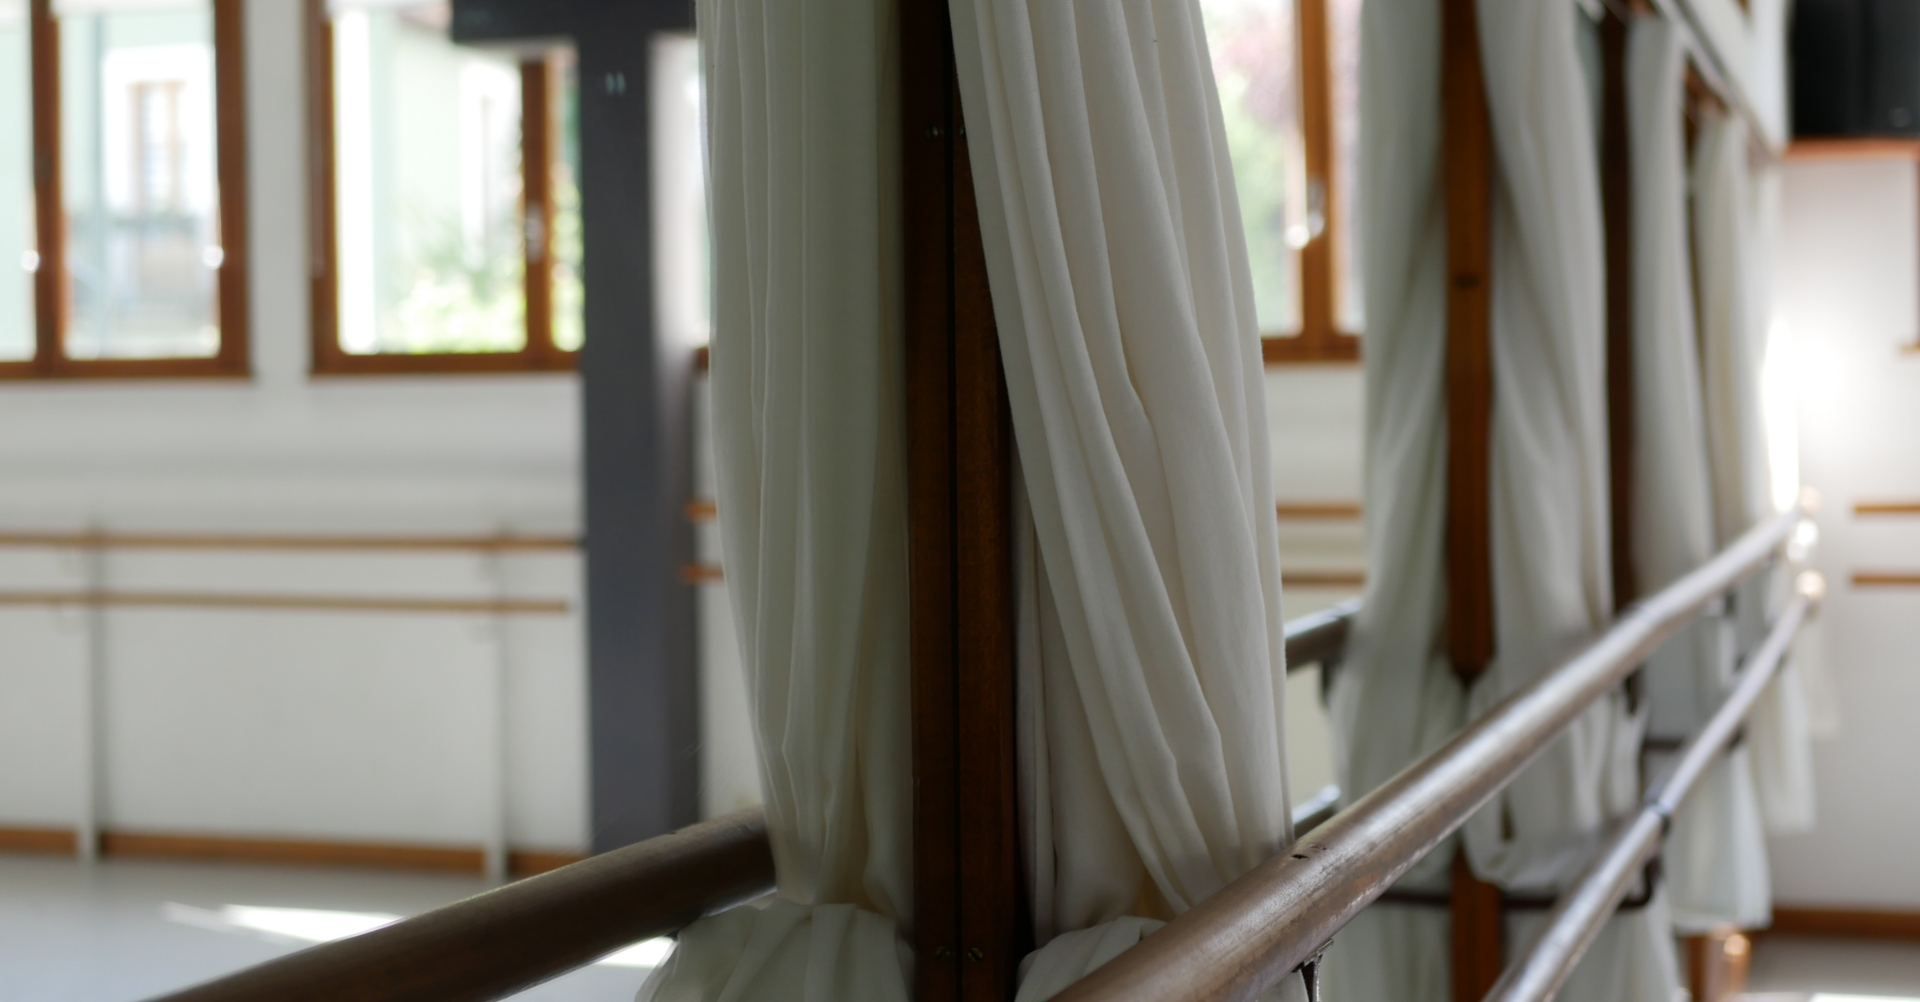
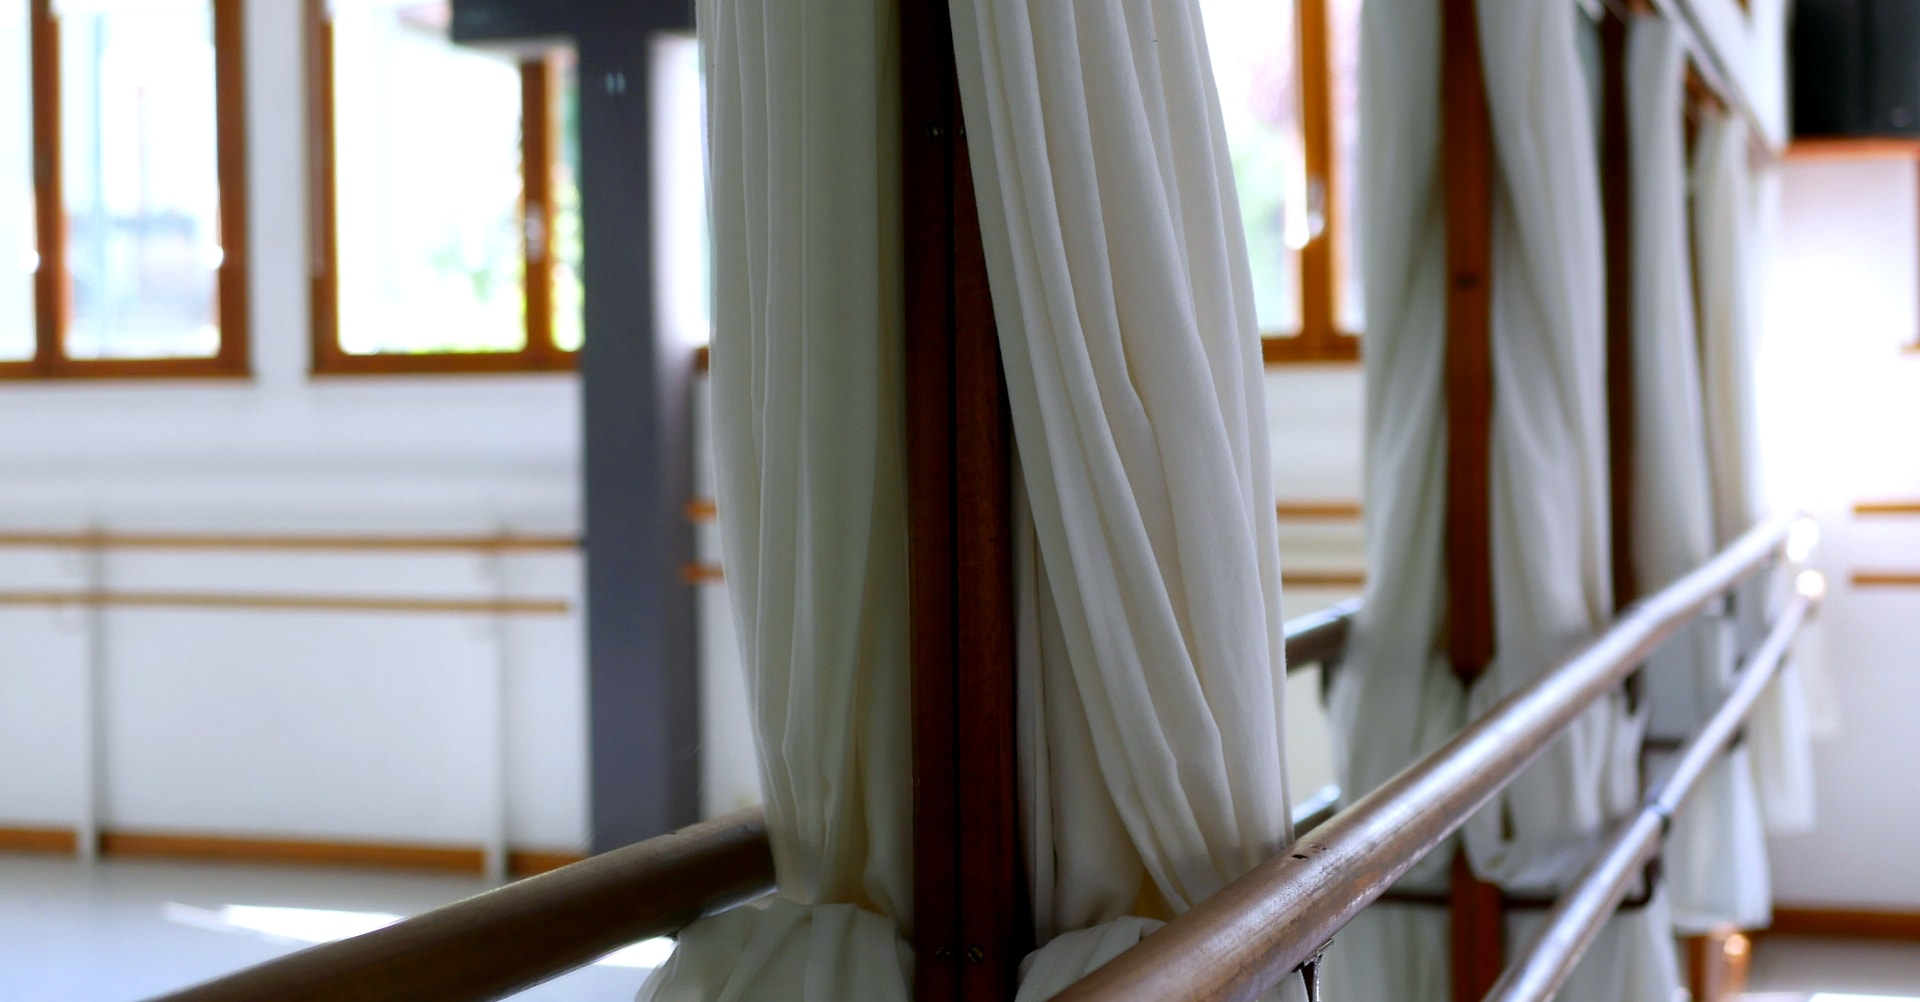
Photos en couleur avec un étalonnage commun, flou et distorsion renforcés en haut et en bas d’écran

diff --git a/src/styles/global.css b/src/styles/global.css
@@ -437,21 +437,3 @@ html { background: #ececeb; }
 
 .tlink:hover, a:hover .block__go, .course:hover { color: var(--plum); }
 .on-black .tlink:hover, .on-black a:hover .block__go, .block--full:hover .block__go { color: inherit; }
-
-main img, .menu__preview img { filter: var(--bw); }
-:root { --bw: grayscale(1) contrast(1.06); }
-[data-clip] img { filter: blur(10px) var(--bw); }
-[data-clip].is-in img { filter: var(--bw); }
-img.bw-c {
-  position: absolute;
-  inset: 0;
-  z-index: 0;
-  width: 100%;
-  height: 100%;
-  object-fit: cover;
-  filter: none !important;
-  pointer-events: none;
-  clip-path: circle(0px at var(--cx, 50%) var(--cy, 50%));
-  transition: clip-path 1s var(--ease-expo);
-}
-.bw-on > img.bw-c { clip-path: circle(var(--cr, 150%) at var(--cx, 50%) var(--cy, 50%)); }
